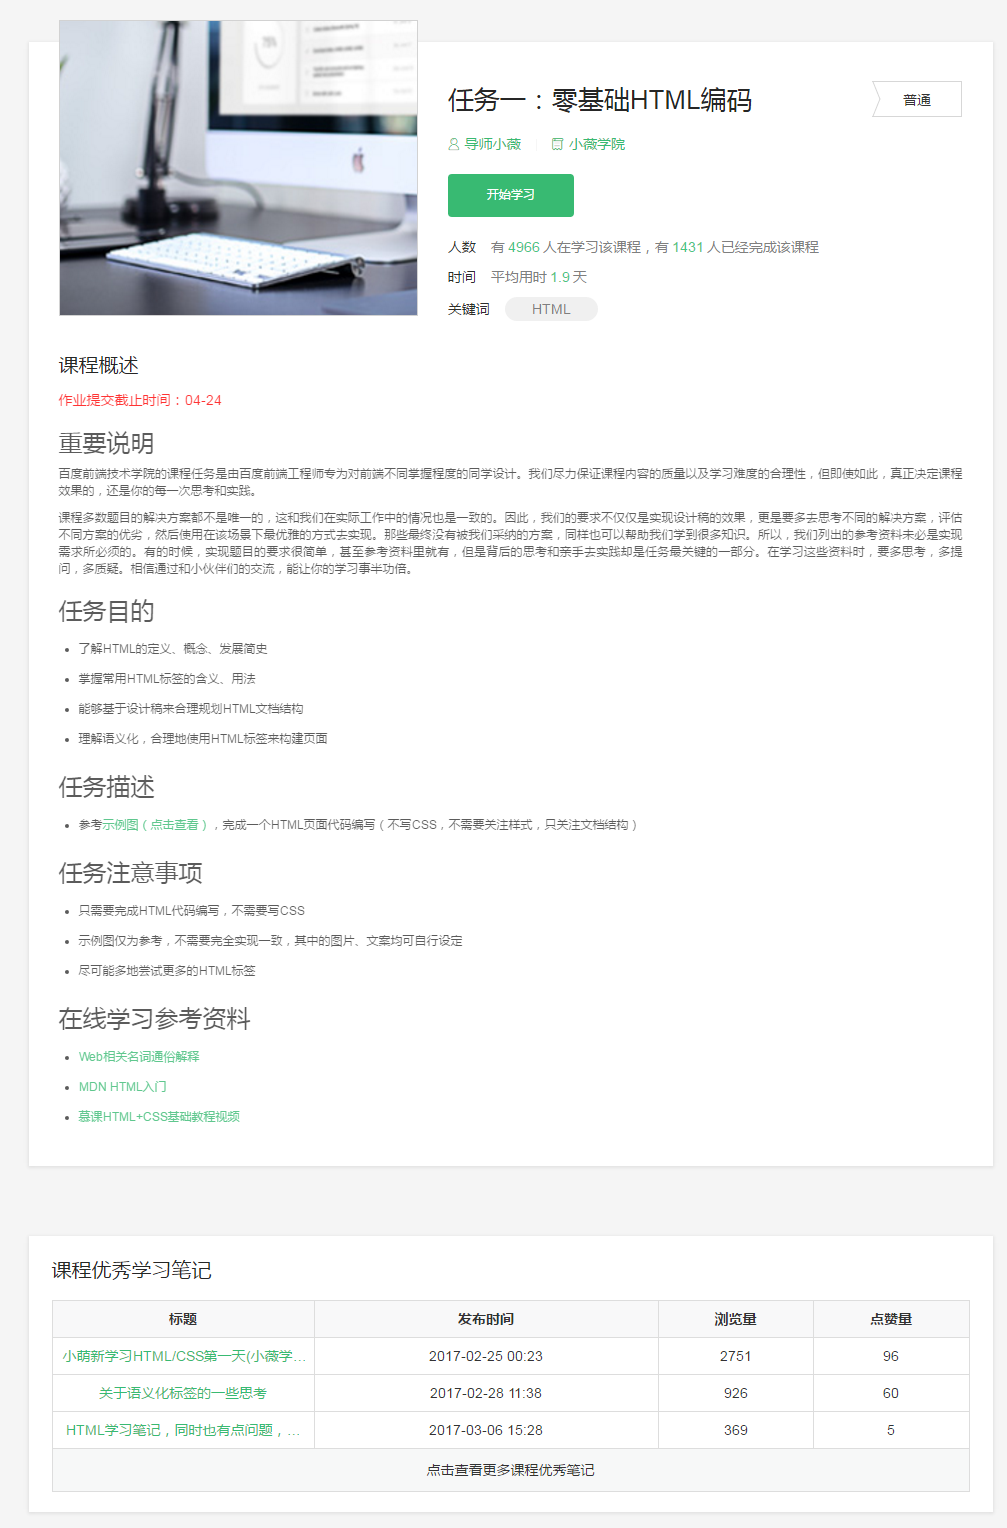
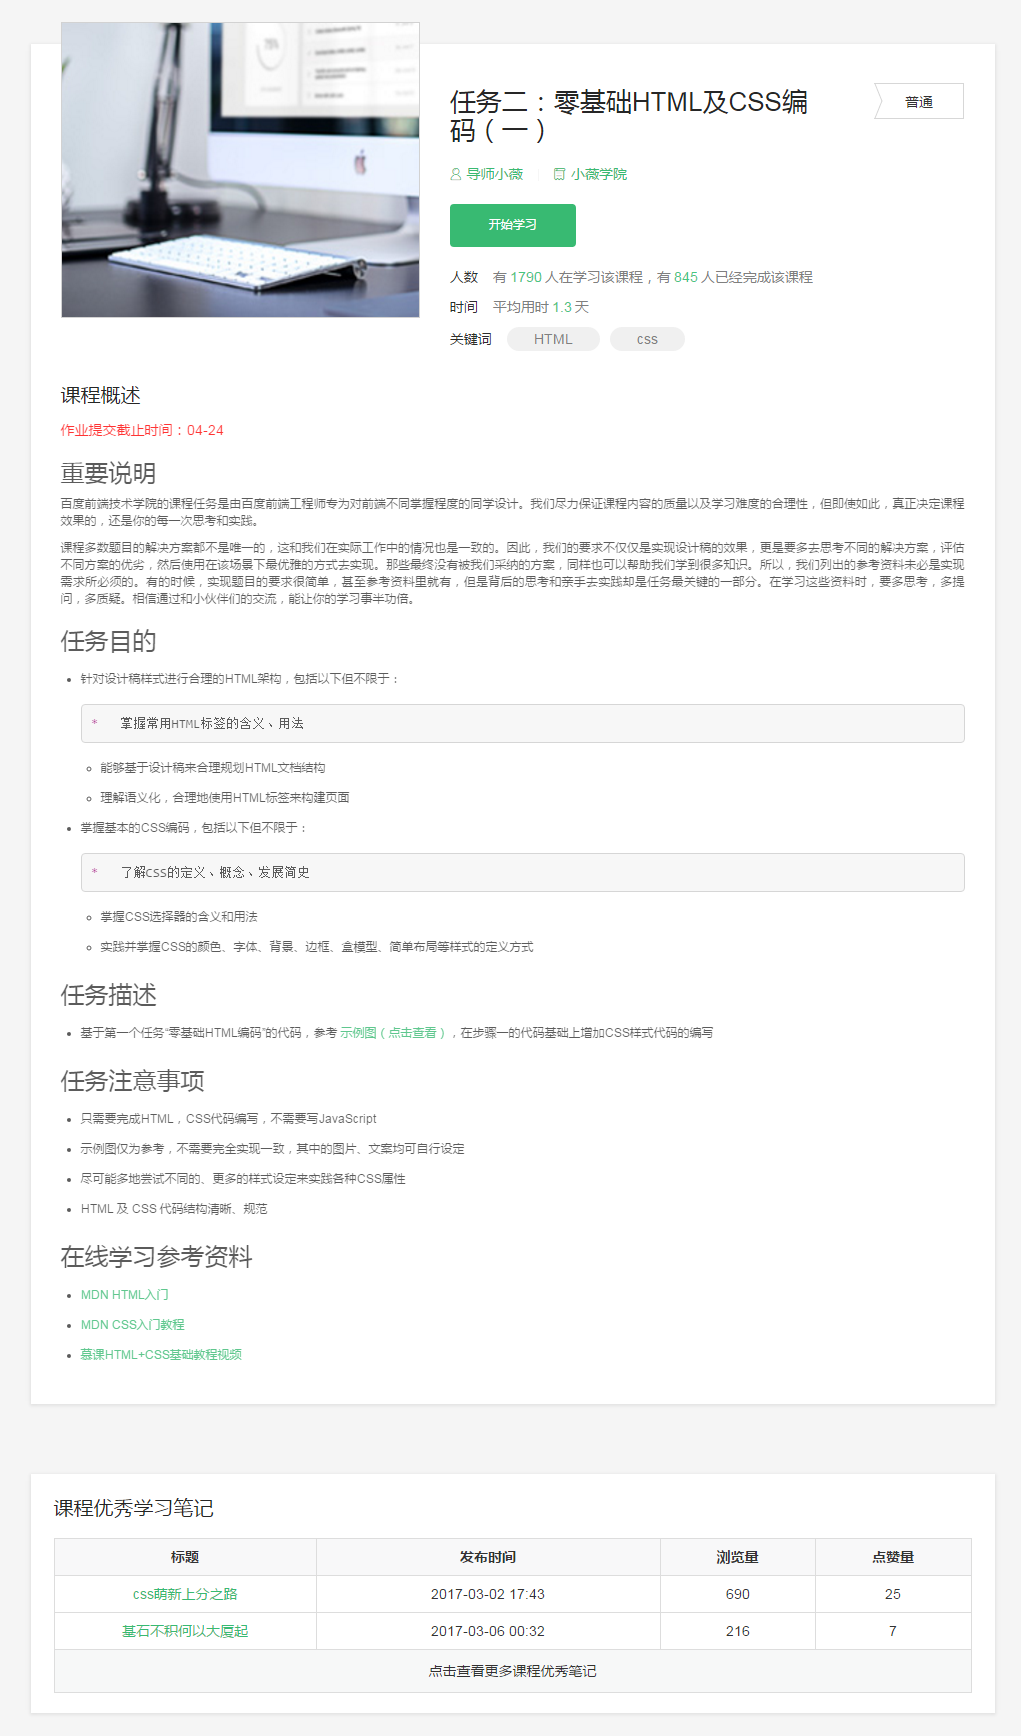
添加html任务二 、 三 、 四 图片

diff --git a/index.html b/index.html
@@ -21,9 +21,9 @@
         <div id="content-modle">
             <ul class="html">
                 <li><a class="taskTarget" href="HTML_task/01/01.html">任务一 HTML语义化</a></li>
-                <li><a class="taskTarget" href="HTML_task/02/02.html">任务二</a></li>
-                <li><a class="taskTarget" href="HTML_task/03/03.html">任务三</a></li>
-                <li><a class="taskTarget" href="HTML_task/04/04.html">任务四</a></li>
+                <li><a class="taskTarget" href="HTML_task/02/02.html">任务二 HTML基础与css编码</a></li>
+                <li><a class="taskTarget" href="HTML_task/03/03.html">任务三 三栏式布局</a></li>
+                <li><a class="taskTarget" href="HTML_task/04/04.html">任务四 定位与居中</a></li>
                 <li><a class="taskTarget" href="HTML_task/05/05.html">任务五</a></li>
                 <li><a class="taskTarget" href="HTML_task/06/06.html">任务六</a></li>
                 <li><a class="taskTarget" href="HTML_task/07/07.html">任务七</a></li>

diff --git a/HTML_task/02/02.html b/HTML_task/02/02.html
@@ -13,7 +13,7 @@
 
 <div id="question">
     <span class="close">X</span>
-    <img src="01.png" bigsrc="JS_task_01.png" alt="">
+    <img src="02.png"  alt="">
 </div>
 <script type="text/javascript" src="../../js/public.js"></script>
 </body>

diff --git a/HTML_task/03/03.html b/HTML_task/03/03.html
@@ -13,7 +13,7 @@
 
 <div id="question">
     <span class="close">X</span>
-    <img src="01.png" bigsrc="JS_task_01.png" alt="">
+    <img src="03.png" alt="">
 </div>
 <script type="text/javascript" src="../../js/public.js"></script>
 </body>

diff --git a/HTML_task/04/04.html b/HTML_task/04/04.html
@@ -13,7 +13,7 @@
 
 <div id="question">
     <span class="close">X</span>
-    <img src="01.png" bigsrc="JS_task_01.png" alt="">
+    <img src="04.png" alt="">
 </div>
 <script type="text/javascript" src="../../js/public.js"></script>
 </body>
